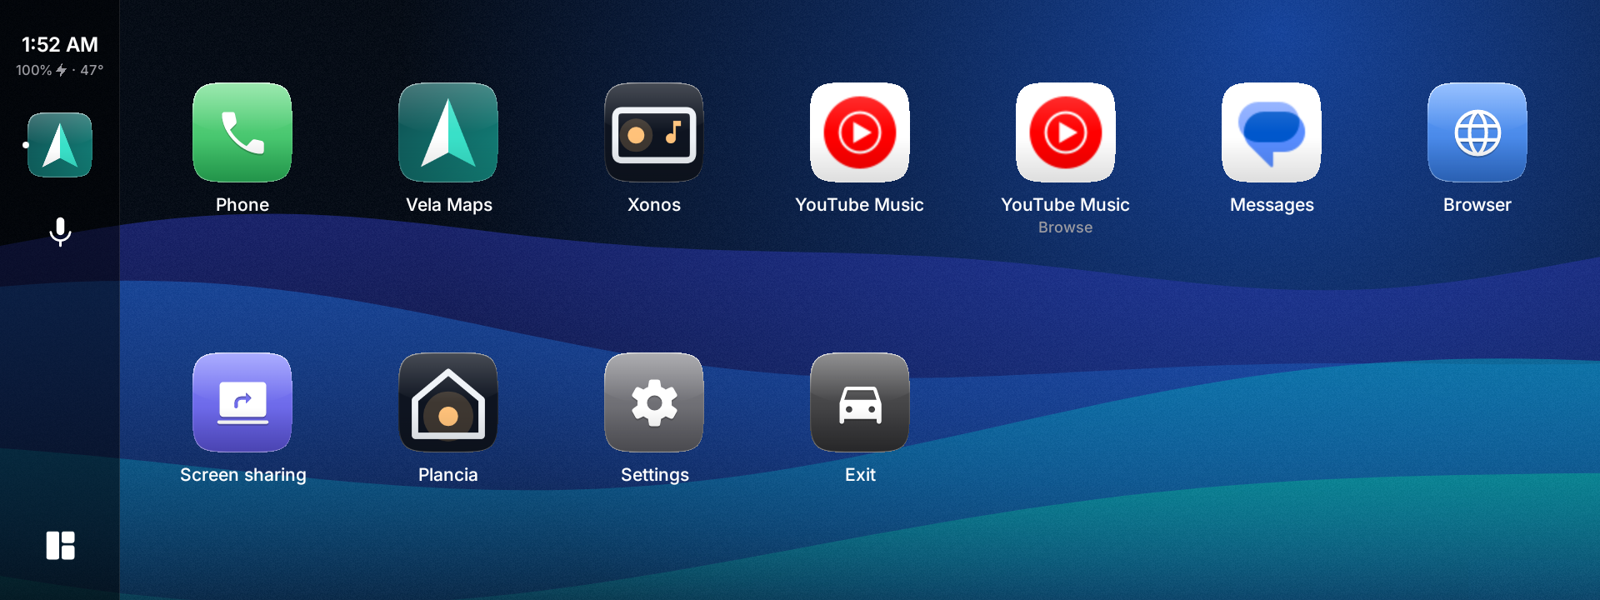
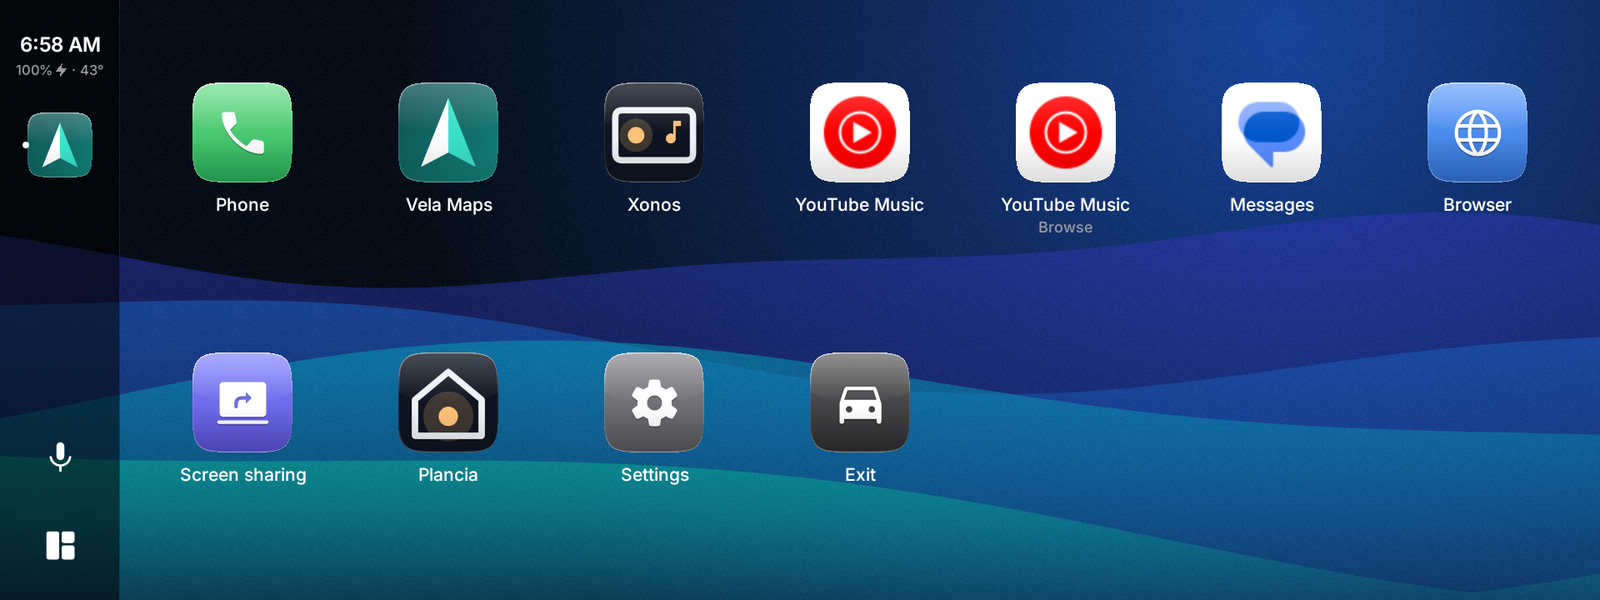
readme: in cima la Home con la mappa e il lettore, scatti della 0.5.04
Claude-Session: https://claude.ai/code/session_01WhJ7fFua96uEAdUhmZ4dqC

diff --git a/README.md b/README.md
@@ -29,14 +29,16 @@ myCar has an infotainment-style look of its own: a dock down the left, a paged a
 Inter typeface, a dark theme by default, app icons in a rounded-square frame, and wallpapers
 behind it all — still or moving.
 
+![Home on a wide car screen: Vela Maps with places nearby, and beside it the player, a song's cover filling it with the controls on frosted glass](docs/screenshots/home.png)
+
+*Home: your map, with the music beside it, or an app you choose.*
+
 | | |
 |---|---|
-| ![The app grid over the moving Waves wallpaper, with the dock down the left](docs/screenshots/launcher.png) | ![Vela Maps on the car screen, its list of nearby places beside the map](docs/screenshots/navigation.png) |
-| Your car apps in one place, over a moving wallpaper. | Vela Maps, with nearby places a tap away. |
-| ![The player: the song's cover filling it, its controls on frosted glass](docs/screenshots/music.png) | ![An incoming call on the car screen, with Decline and Answer](docs/screenshots/call.png) |
-| The player that sits beside the map, its controls on frosted glass. | Answer or decline a call from the car. |
-| ![The wallpaper picker: seven still wallpapers and four moving ones](docs/screenshots/wallpapers.png) | ![The car settings: open on connect, size, and theme](docs/screenshots/settings.png) |
-| Still or moving wallpapers, all drawn by myCar. | Size and theme, in the car's settings. |
+| ![The app grid over the moving Waves wallpaper, with the dock down the left](docs/screenshots/launcher.png) | ![An incoming call on the car screen, with Decline and Answer](docs/screenshots/call.png) |
+| Your car apps in one place, over a moving wallpaper. | Answer or decline a call from the car. |
+| ![The wallpaper picker: seven still wallpapers and four moving ones](docs/screenshots/wallpapers.png) | ![The car settings: open on connect, what sits beside the map, and size](docs/screenshots/settings.png) |
+| Still or moving wallpapers, all drawn by myCar. | What sits beside the map, and the size, in the car's settings. |
 
 ## Features
 

diff --git a/CLAUDE.md b/CLAUDE.md
@@ -72,12 +72,18 @@ Rispondi sempre in **italiano**.
   `assistant-gesture/` (l'assistente finto del debug, `debug/TestAssistant.kt`, scrive nel log
   flag e argomenti con cui Android lo mostra: il log della CI li confronta). L'assistente finto
   diventa predefinito solo dopo l'avvio dello scatto: un force-stop dell'app che fa da
-  assistente fa tornare Android all'app Google.
+  assistente fa tornare Android all'app Google. Verificato (0.5.04): dal microfono l'assistente
+  riceve `invocation_type=1`, `triggered_by=83` e la sorgente "assist gesture", come dal launcher;
+  l'app Google si apre in ascolto. Lo scorrimento simulato con `input` invece l'emulatore non lo
+  prende per il gesto dell'assistente (né veloce né passo-passo): `assistant-gesture/` resta vuoto.
   Ogni esecuzione sovrascrive `ci/car-preview`: con più branch in CI, scaricarlo appena finisce.
 - Screenshot del README (`docs/screenshots/`): dagli scatti dell'anteprima di `main` (non di un
   branch: devono mostrare la versione che si rilascia), coprendo il badge DEBUG BUILD in basso a
   destra. Mai scatti con la mappa ancora nera o col segnaposto "Map" del player di debug: del
-  player si mostra solo il suo pannello.
+  player si mostra solo il suo pannello. In cima c'è `home.png`, da `split/` (mappa vera e
+  lettore): lì il badge si copre specchiando il pannello del lettore, che è simmetrico; sugli
+  sfondi con linee (Waves) si riflette la parte appena a sinistra del badge, perché copiarla
+  lascerebbe un gradino nell'onda.
 
 ## Rilasci
 
